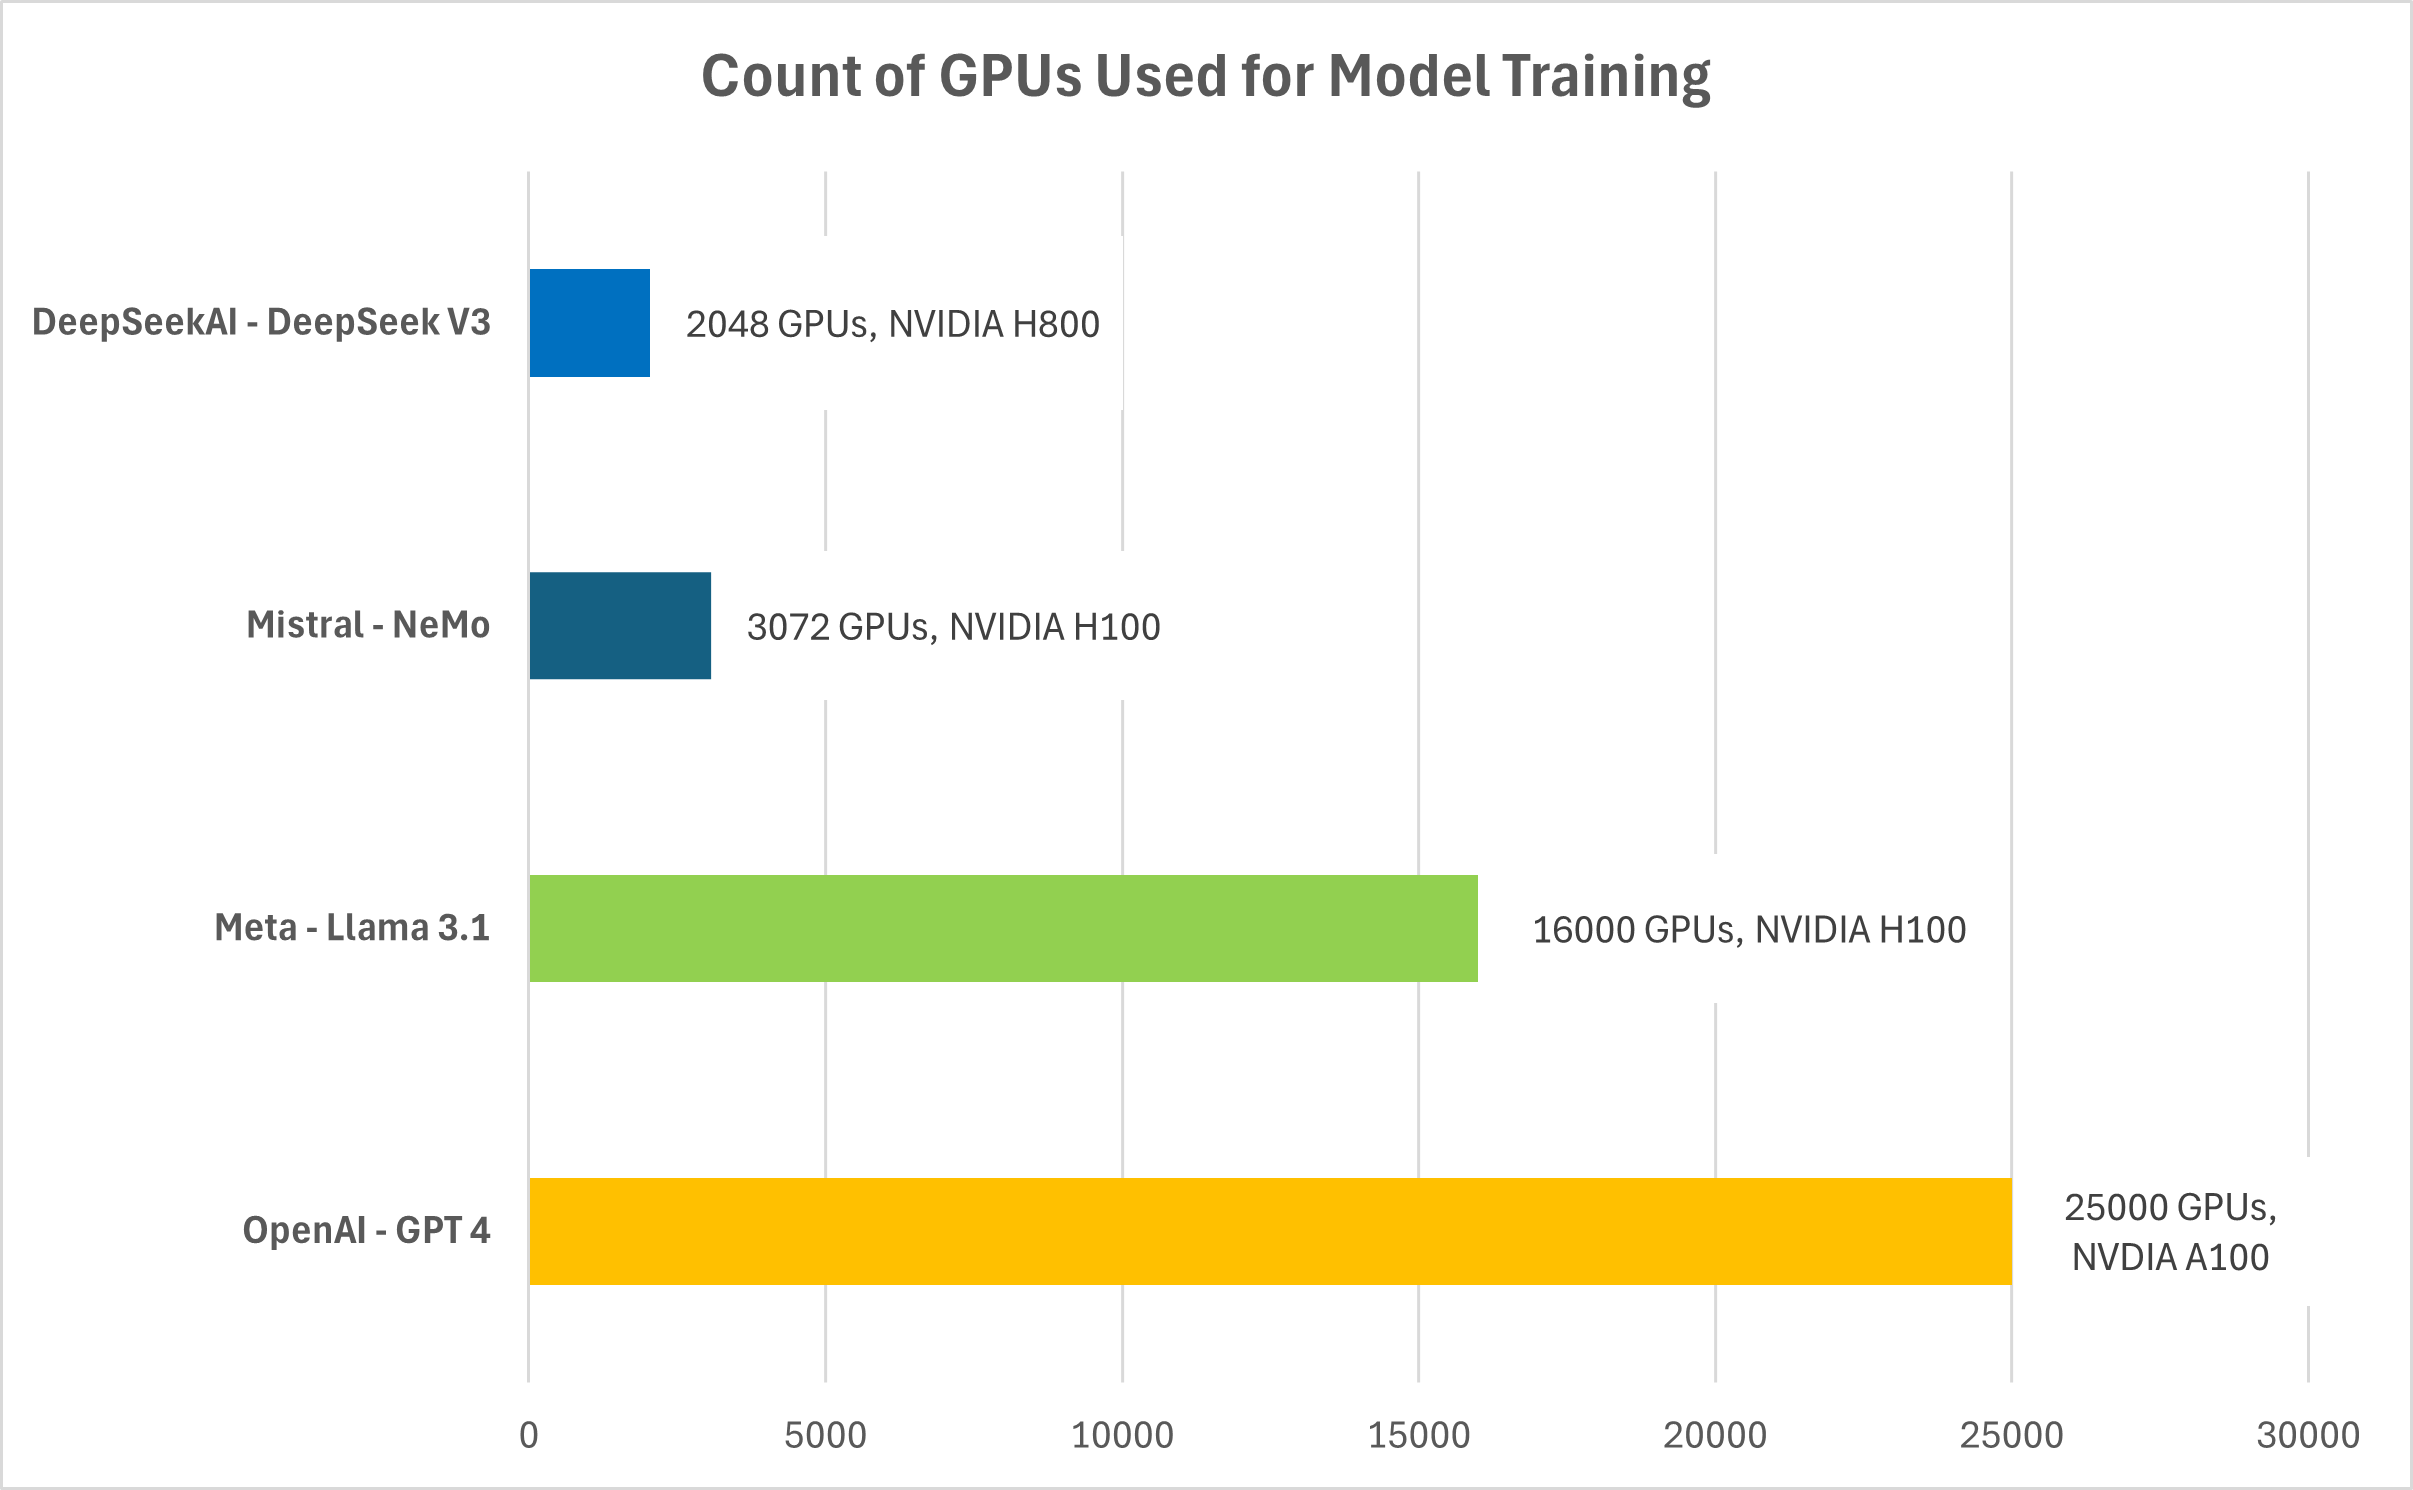
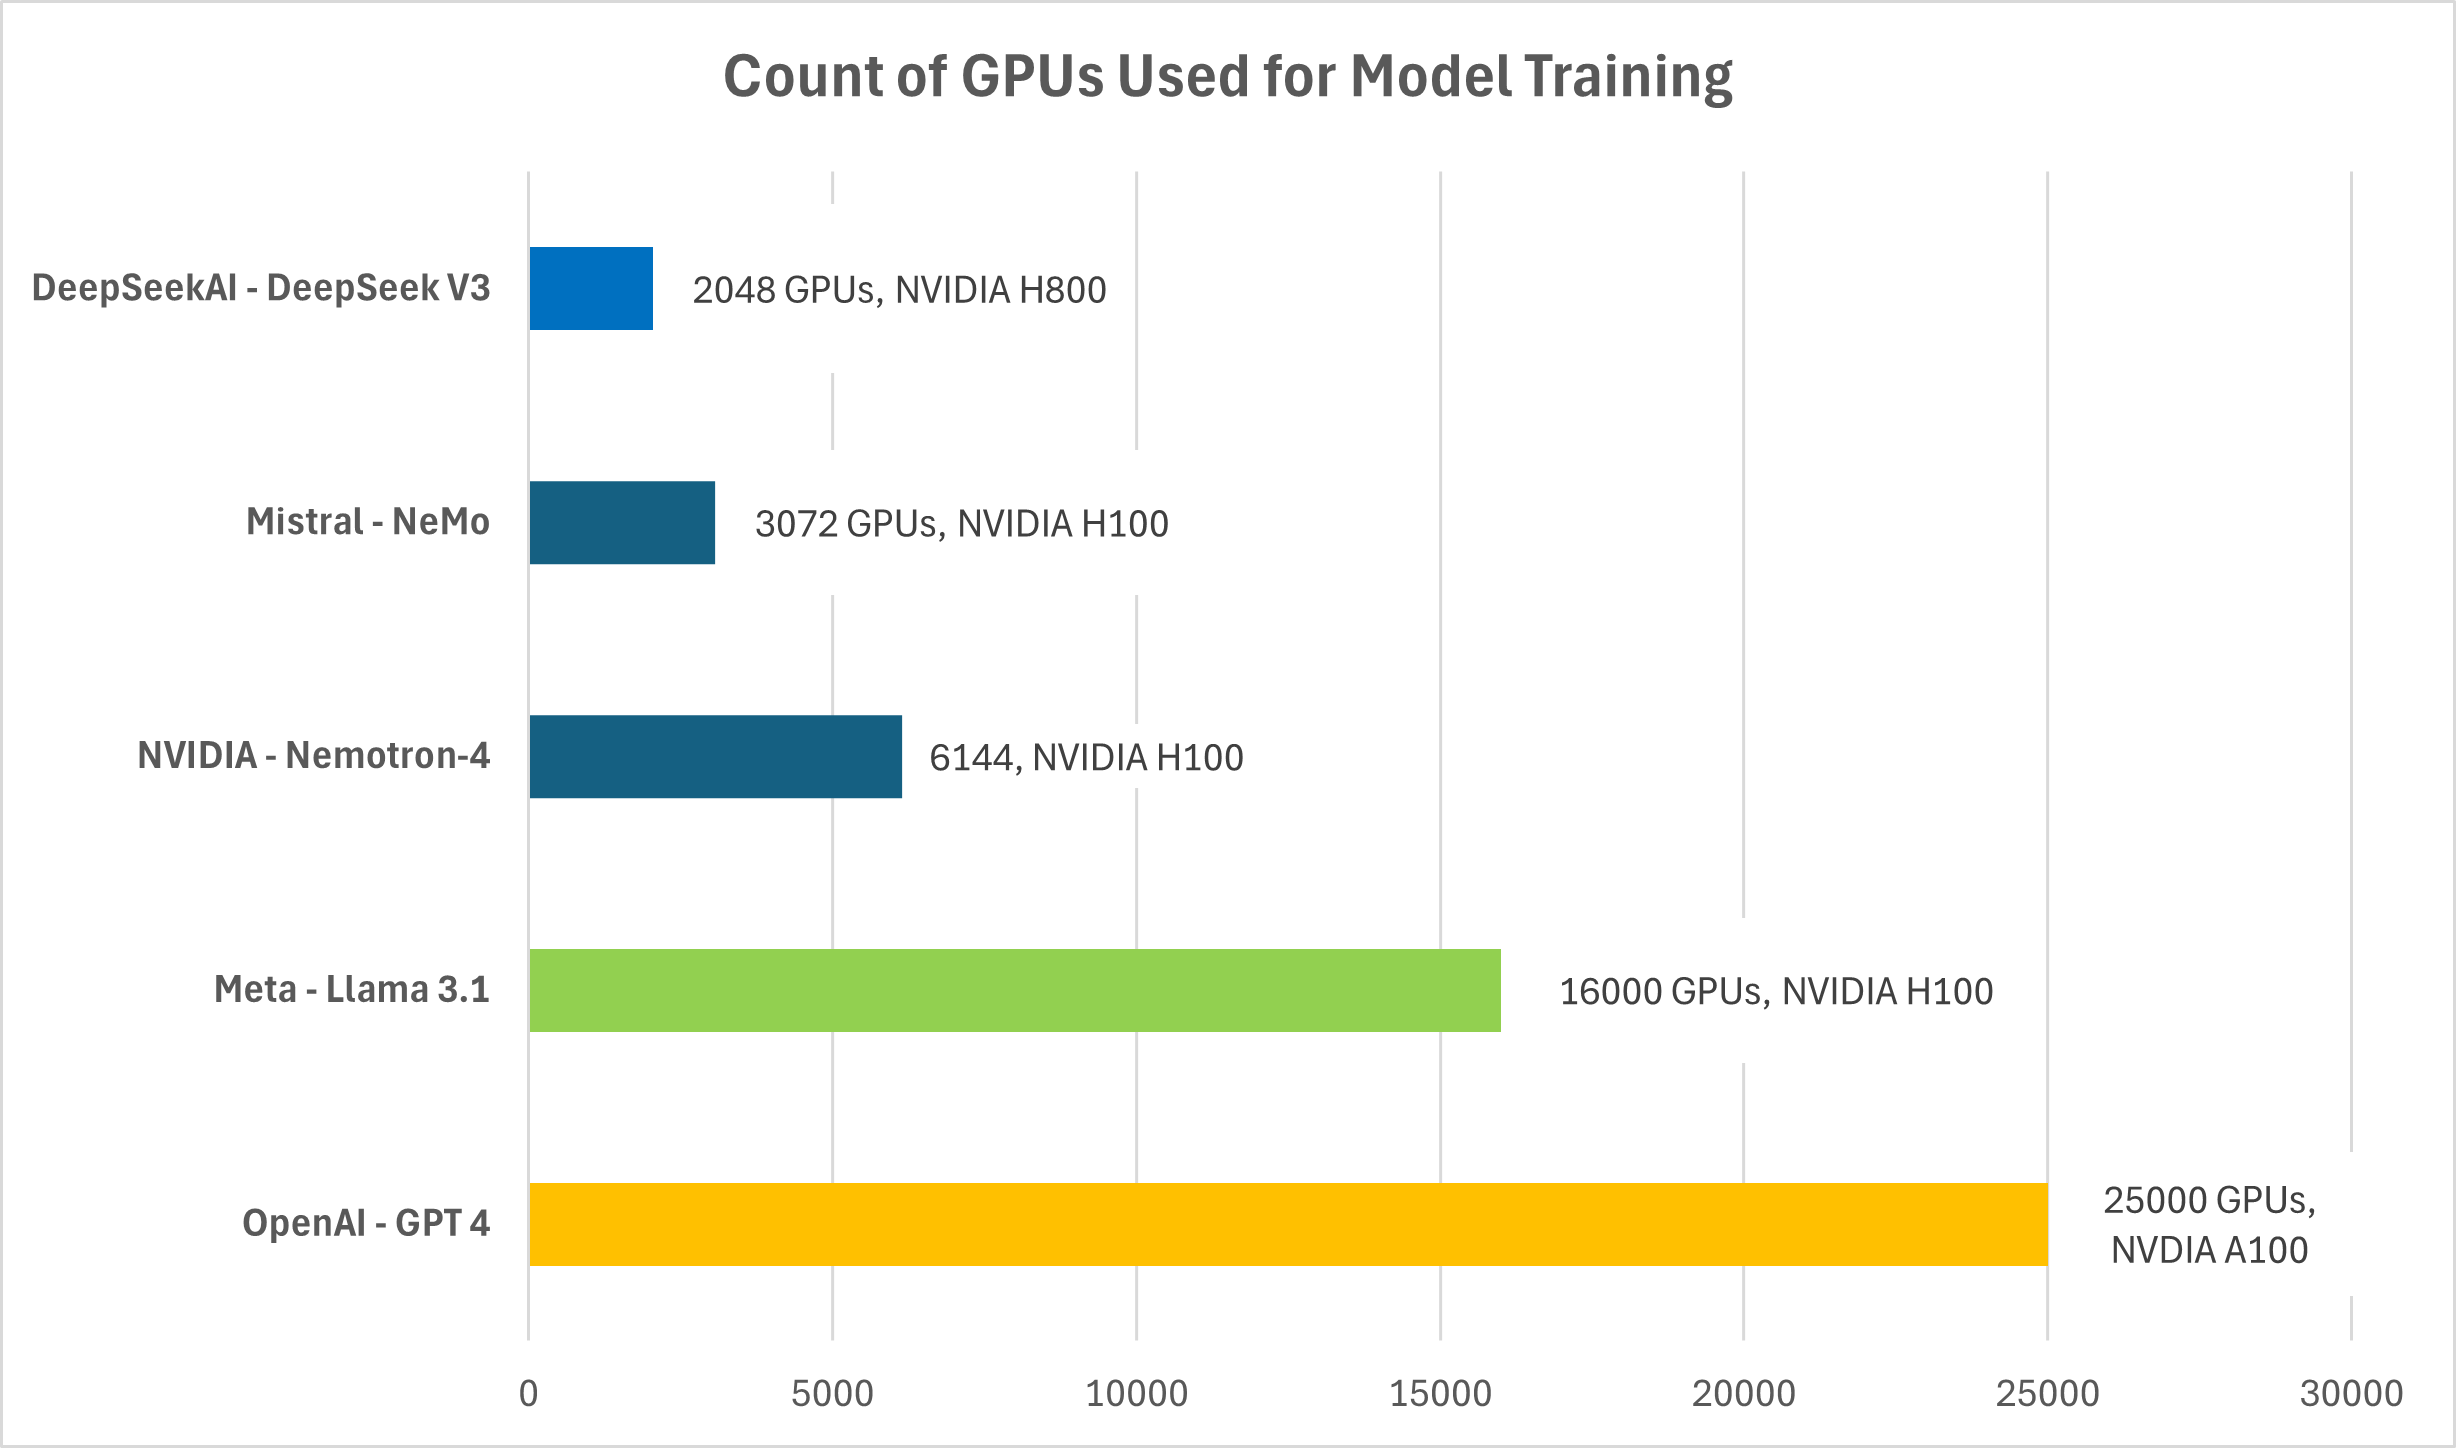
Updated source data with folders

diff --git a/README.md b/README.md
@@ -49,6 +49,8 @@ DeepSeek V3 redefines what’s possible in AI by combining exceptional performan
 
 Mistral NeMo is another trailblazer in efficiency. Trained with only 3,072 NVIDIA H100 GPUs — just 12% of what Meta and OpenAI required — its estimated power cost was similarly low at $470K.
 
+NVIDIA Nemotron strikes a middle ground, employing 6,144 H100 GPUs with training power costs totaling $1.2 million. While more economical than LLaMA 3.1 or GPT-4, it remains less efficient than DeepSeek or Mistral in terms of resource and cost optimization.
+
 The total training budget tells an even more transformative story: DeepSeek V3 came in at $5.576 million, while Mistral NeMo is estimated at $4.42 million — just a fraction of the billions spent by larger players. These models not only set new benchmarks for performance but also prove that the future of AI can be smarter, smaller, and more power-efficient.
 
 
@@ -65,3 +67,5 @@ The evolution of AI doesn’t have to be fueled by ever-increasing consumption. 
 Models compared v1: DeepSeek V3, Llama 3.1, and GPT 4.
 
 Models compared v2: DeepSeek V3, Mistral NeMo, Llama 3.1, and GPT 4.
+
+Models compared v3: NVIDIA Nemotron-4, DeepSeek V3, Mistral NeMo, Llama 3.1, and GPT 4.
